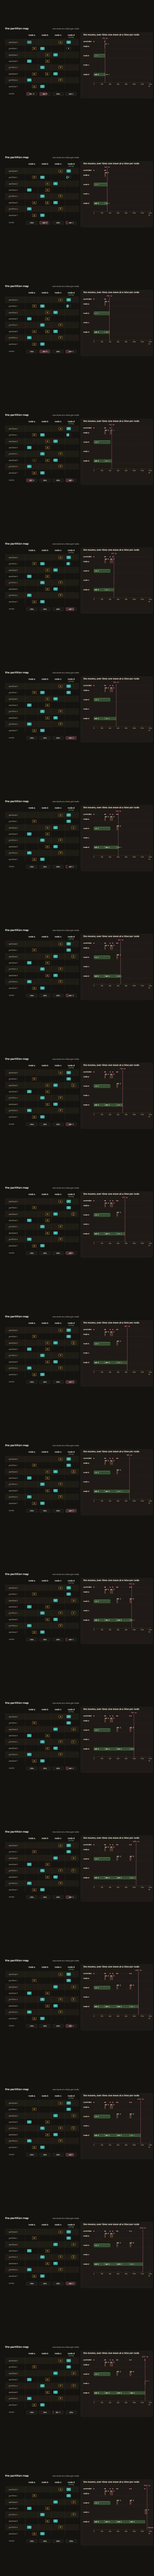
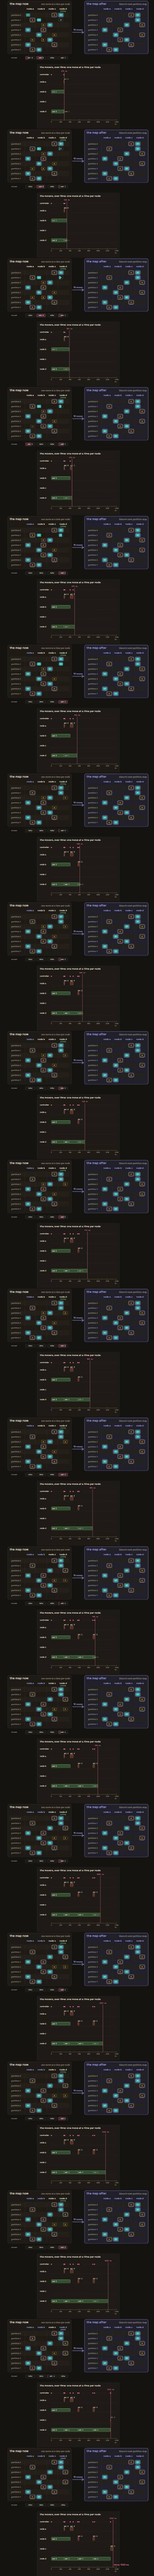
blance 02-moving: the two maps closer, and alike
The map after sits closer to the map now, the 10-moves arrow snug in
the gap between them, and the canvas is narrower to match. And the two
maps' frames are the same size: the map now's movers sit under its
frame, outside it.

Changed region(s): [[0.1548, 0.0, 0.9905, 0.9983], [0.0619, 0.4056, 0.1238, 0.9983], [0.0619, 0.0, 0.1238, 0.3744]]

diff --git a/topics/blance/02-moving/layout.js b/topics/blance/02-moving/layout.js
@@ -11,7 +11,7 @@
 
 import { NODES, PARTITIONS } from './scenarios.js';
 
-export const CANVAS = [0, 0, 1160, 960];
+export const CANVAS = [0, 0, 1080, 960];
 
 // A board: its rows, a partition each, and its columns, a node each.
 const board = (x0) => {
@@ -20,18 +20,19 @@ const board = (x0) => {
   b.x1 = b.col0 + NODES.length * b.colW;
   return b;
 };
-export const BOARDS = { now: board(40), after: board(690) };
+export const BOARDS = { now: board(40), after: board(600) };
 export const BOARD = BOARDS.now;
 export const colX = (node, B = BOARD) => B.col0 + NODES.indexOf(node) * B.colW + B.colW / 2;
 export const rowY = (p, B = BOARD) => B.y0 + PARTITIONS.indexOf(p) * B.rowH + B.rowH / 2;
 export const chipX = (node, state, B = BOARD) => colX(node, B) + (state === 'primary' ? -16 : 16);
 export const HEAD_Y = BOARD.y0 - 22;
-export const MOVER_Y = BOARD.y1 + 30;
+// (the movers: under the map now, outside its frame)
+export const MOVER_Y = BOARD.y1 + 42;
 // (between the two maps: the arrow from now to after)
-export const ARROW = { x0: BOARDS.now.x1 + 26, x1: BOARDS.after.x0 + 10, y: (BOARD.y0 + BOARD.y1) / 2 };
+export const ARROW = { x0: BOARDS.now.x1 + 28, x1: BOARDS.after.x0 - 20, y: (BOARD.y0 + BOARD.y1) / 2 };
 
 // the bottom panel, centered under the two maps
-export const PANEL = { x0: 280, x1: 880, y0: 470, y1: 944, titleY: 500 };
+export const PANEL = { x0: 240, x1: 840, y0: 470, y1: 944, titleY: 500 };
 // the plans: a partition's moves, a row each
 export const PLAN_X = PANEL.x0 + 110;
 export const planY = (p) => PANEL.y0 + 66 + PARTITIONS.indexOf(p) * 46;
@@ -45,7 +46,7 @@ export const LIDS = {};
 export const BUBBLES = {};
 
 export const CAMERAS = {
-  overview: { rect: [0, 0, 1160, 960], label: '', section: null },
+  overview: { rect: [0, 0, 1080, 960], label: '', section: null },
 };
 
 const A = BOARDS.after;

diff --git a/topics/blance/02-moving/diagram.js b/topics/blance/02-moving/diagram.js
@@ -111,8 +111,9 @@ export class Diagram {
 
   _now(g) {
     const B = BOARDS.now;
-    // (its frame takes in the movers, under the board)
-    this._frame(g, B, 'bframe-now', MOVER_Y - B.y1 + 8);
+    // (the same frame as the map after's, so the two look alike; the
+    // movers sit under it, outside)
+    this._frame(g, B, 'bframe-now');
     txt(g, B.x0, B.titleY, 'the map now', 'btitle');
     this.subA = txt(g, B.x1 + 10, B.titleY, '', 'bsub', 'end');
     this.subB = txt(g, B.x1 + 10, B.titleY, '', 'bsub', 'end');
